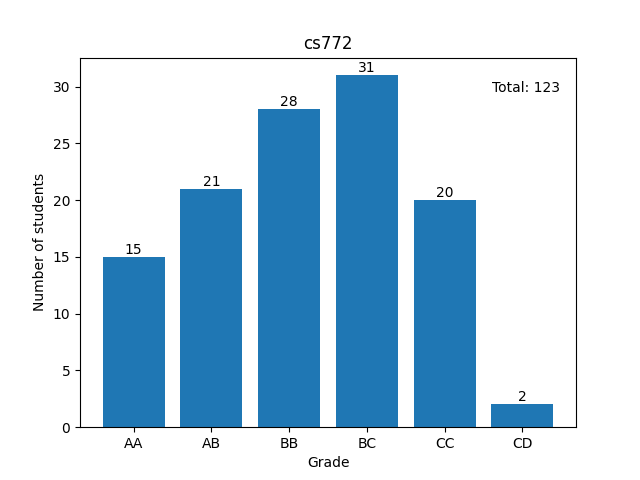
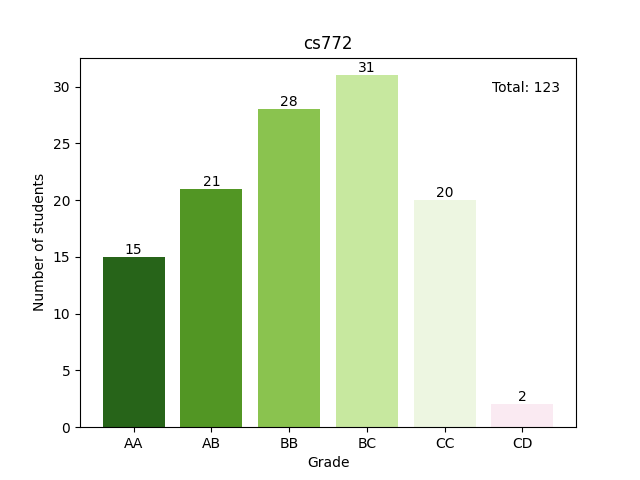
graph color change, api for graph, render the file in frontend

Changed region(s): [[0.1562, 0.1562, 0.875, 0.9062]]

diff --git a/MODULE-WEB/script.js b/MODULE-WEB/script.js
@@ -1,52 +1,108 @@
-document.addEventListener('DOMContentLoaded', function () {
-    const courseCodes=["CS 601", "CS 618", "CS 725" , "CS 742"];
+function searchCourse() {
+  const searchBar = document.getElementById("searchBar");
+  const courseCode = searchBar.value.trim().toLowerCase();
 
-    function handleKeyDown(event){
-      if(event.key == "Enter"){
-        searchCourse();
-      }
-    }
-    function searchCourse(){
-      const searchBar= document.getElementById("searchBar");
-      const courseDetailsContainer= document.getElementById("courseDetailsContainer");
+  // Check if the courseCode matches the expected pattern
+  const pattern = /^cs\d+$/;
+  if (!pattern.test(courseCode)) {
+    alert(
+      "Invalid input. Please enter a valid course code in the format cs<number>."
+    );
+    return;
+  }
+  var returnVal = populateCourseDetails(courseCode);
+  console.log(returnVal);
+}
 
-      const enteredCode= searchBar.value.toUpperCase();
-      if(courseCodes.includes(enteredCode)){
-        courseDetailsContainer.style.display="block";
-        populateCourseDetails(enteredCode);
-      }
-      else{
-        courseDetailsContainer.style.display="none";
-      }
-    }
+function populateCourseDetails(courseCode) {
+  // Replace this with your actual API endpoint
+  const apiUrl = `http://127.0.0.1:5000/api/v1.0/courseDetails?code=${courseCode}`;
 
-    function populateCourseDetails(courseCde){
-      // Replace this with your actual API endpoint
-      const apiUrl = 'http://127.0.0.1:5000/api/v1.0/courseDetails?code=${courseCode}';
-    
-      // Fetch data from the API
-      fetch(apiUrl)
-        .then(response => response.json())
-        .then(data => {
-          // Populate the table with the response data
-          const tableBody = document.getElementById('courseDetailsBody');
-    
-          for (const key in data) {
-            if (data.hasOwnProperty(key)) {
-              const row = document.createElement('tr');
-              const attributeCell = document.createElement('td');
-              const valueCell = document.createElement('td');
-    
-              attributeCell.textContent = key;
-              valueCell.textContent = data[key];
-    
-              row.appendChild(attributeCell);
-              row.appendChild(valueCell);
-              tableBody.appendChild(row);
-            }
+  // Fetch data from the API
+  fetch(apiUrl)
+    .then((response) => {
+      return response.json();
+    })
+    .then((data) => {
+      // Populate the table with the response data
+      const tableBody = document.getElementById("courseDetailsBody");
+      // append the following rows to table body. clear existing
+      tableBody.innerHTML = "";
+      const order = [
+        "code",
+        "title",
+        "instructor",
+        "slot",
+        "venue",
+        "difficulty",
+        "projects",
+        "recommended",
+        "strength",
+      ];
+
+      order.forEach((key) => {
+        if (data.hasOwnProperty(key)) {
+          const row = document.createElement("tr");
+          const attributeCell = document.createElement("td");
+          const valueCell = document.createElement("td");
+
+          valueCell.textContent = formatValue(data[key]);
+          if (key == "code") {
+            key = "Course Code";
           }
-        })
-        .catch(error => console.error('Error fetching data:', error));
-    }
-  });
-  
+
+          if (key == "projects") {
+            key = "Contains Projects";
+          }
+          attributeCell.textContent = formatKey(key);
+          attributeCell.classList.add("font-weight-bold");
+          row.appendChild(attributeCell);
+          row.appendChild(valueCell);
+          tableBody.appendChild(row);
+        }
+      });
+
+      tableBody.style.display = "block";
+      fetchImages(courseCode);
+      return true;
+    })
+    .catch((error) => {
+      console.error("Error fetching data:", error);
+      tableBody.style.display = "none";
+      return false;
+    });
+  // return true if data is found
+}
+function formatKey(key) {
+  // Capitalize the first letter of each word
+  return key.replace(/(?:^|\s)\S/g, (char) => char.toUpperCase());
+}
+function formatValue(value) {
+  // Format the value as needed (e.g., capitalize the first letter)
+  return String(value).charAt(0).toUpperCase() + String(value).slice(1);
+}
+async function fetchImages(filename) {
+  try {
+    const response = await fetch(
+      `http://127.0.0.1:5000/api/v1.0/get_images/${filename}`
+    );
+    const data = await response.json();
+
+    const imageContainer = document.getElementById("imageContainer");
+    imageContainer.innerHTML = "";
+
+    data.image_paths.forEach((image) => {
+      const img = document.createElement("img");
+      img.src = image.path;
+      img.alt = `Graph analysis for ${image.year} year`;
+
+      const heading = document.createElement("h6");
+      heading.textContent = `Year: ${image.year}`;
+
+      imageContainer.appendChild(heading);
+      imageContainer.appendChild(img);
+    });
+  } catch (error) {
+    console.error("Error fetching images:", error);
+  }
+}

diff --git a/MODULE-WEB/index.html b/MODULE-WEB/index.html
@@ -1,19 +1,25 @@
 <!DOCTYPE html>
 <html lang="en">
+
 <head>
   <meta charset="UTF-8">
   <meta name="viewport" content="width=device-width, initial-scale=1.0">
   <title>Course Analysis - IITB Page</title>
   <link rel="stylesheet" href="https://stackpath.bootstrapcdn.com/bootstrap/4.5.2/css/bootstrap.min.css">
   <link rel="stylesheet" href="style.css">
-  <script src="script.js"></script>
   <!-- include bootstrap js and query -->
   <script src="https://code.jquery.com/jquery-3.5.1.slim.min.js"></script>
   <script src="https://cdn.jsdelivr.net/npm/@popperjs/core@2.11.6/dist/umd/popper.min.js"></script>
   <script src="https://stackpath.bootstrapcdn.com/bootstrap/4.5.2/js/bootstrap.min.js"></script>
 </head>
+
 <body>
   <!-- Bootstrap nav bar -->
+  <!-- add script src -->
+  <script src="script.js"></script>
+
+  
+
   <nav class="navbar navbar-expand-lg navbar-light bg-info">
     <a class="navbar-brand" href="#">
       <img src="IITBlogo.png" width="50" height="50" class="d-inline-block align-top" alt="IITB Logo">
@@ -24,30 +30,29 @@
   <div class="container">
     <div class="row justify-content-center">
       <div class="col-md-6">
-        <div class="input-group mb-3 position-relative">
-          <input type="text" id="searchBar" class="form-control" placeholder="Enter Course Code" onkeydown="handleKeyDown(event)">
-          <div class="input-group-append">
-            <button class="btn btn-outline-secondary bg-info text-white" type="button" onclick="searchCourse">Search</button>
-          </div>
-        </div>
-         <div class="col-md-6" id="courseDetailsContainer" style="display: none;">
-         
-          <h2 class="text-center">Course Details</h2>
-          <br>
-          <table class="table">
-            <thead>
-              <tr>
-                <th>Attribute</th>
-                <th>Value</th>
-              </tr>
-            </thead>
-            <tbody id="courseDetailsBody">
-              <!-- Table body will be populated dynamically using JavaScript -->
-            </tbody>
-          </table>
+        <input type="text" id="searchBar" class="form-control" placeholder="Enter Course Code" >
+        <div class="input-group-append">
+          <button class="btn btn-outline-secondary bg-info text-white" type="button"
+            onclick="searchCourse()">Search</button>
         </div>
       </div>
     </div>
+
+      <div id="courseDetailsContainer">
+        <h2 class="text-center">Course Details</h2>
+        <!-- make width 100% -->
+        <table class=" table table-striped table-responsive" style="width: 100%;">
+
+          <tbody id="courseDetailsBody" style="display:none">
+            <!-- Table body will be populated dynamically using JavaScript -->
+          </tbody>
+        </table>
+        <!-- course graph plot image -->
+        <div id="imageContainer"></div>
+      </div>
   </div>
+
+
 </body>
+
 </html>

diff --git a/MODULE-GRADING/plot.py b/MODULE-GRADING/plot.py
@@ -1,6 +1,7 @@
 # take the output json files and plot graph for all courses as separate graphs
 import json
 import matplotlib.pyplot as plt
+import matplotlib as mpl
 import numpy as np
 import os
 
@@ -9,7 +10,10 @@ json_files = [pos_json for pos_json in os.listdir('./') if pos_json.endswith('.j
 print(json_files)
 
 # for each json file, plot the graph in a folder named by filename
+# diverging map of RdBu
 
+color_list = plt.cm.PiYG(np.linspace(0, 1, 10))
+color_list = color_list[::-1]
 for file in json_files:
     print("FILE",file)
     with open(file) as f:
@@ -19,11 +23,10 @@ for file in json_files:
             # plot a simple plt and save it in a folder
             plt.figure()
             grades = list(course.values())[0]
-            print(grades)
             # get the values of grades to int from string
             grades = {k: int(v) for k, v in grades.items() if k != 'course' and k != 'year'}
             # plot the grades dictionary, maintain the order of keys and x axis labels as keys
-            plt.bar(range(len(grades)-3), list(grades.values())[:-3], align='center')
+            plt.bar(range(len(grades)-3), list(grades.values())[:-3], align='center', color=color_list)
             # show y axis as integers and y value on bar
             for k,v in enumerate(list(grades.values())[:-3]):
                 plt.text(k, v, str(v), ha='center', va='bottom')

diff --git a/MODULE-API/server.py b/MODULE-API/server.py
@@ -2,9 +2,7 @@
 
 from flask import Flask, request, jsonify
 from flask_cors import CORS
-# cors
-
-
+import os
 
 app = Flask(__name__)
 CORS(app)
@@ -26,7 +24,25 @@ def get_course_details(code):
             'strength': 100,
             'difficulty': 3,
             'projects':'yes',
-            'recommended':'yes'
+            'recommended':'yes',
+            'plotlink':'https://www.google.com',
             }
+
+
+@app.route('/api/v1.0/get_images/<coursecode>')
+def get_images(coursecode):
+    base_folder = 'MODULE-GRADING'
+    years = ['2020grades', '2021grades', '2022grades']  # Add more years as needed
+
+    image_paths = []
+
+    for year in years:
+        folder_path = os.path.join(base_folder, year)
+        file_path = os.path.join(folder_path, f'{coursecode}.png')
+        print(file_path)
+        if os.path.exists(file_path):
+            image_paths.append({'year': year[:4], 'path': "../"+file_path})
+
+    return jsonify({'image_paths': image_paths})
 if __name__ == '__main__':
     app.run()
